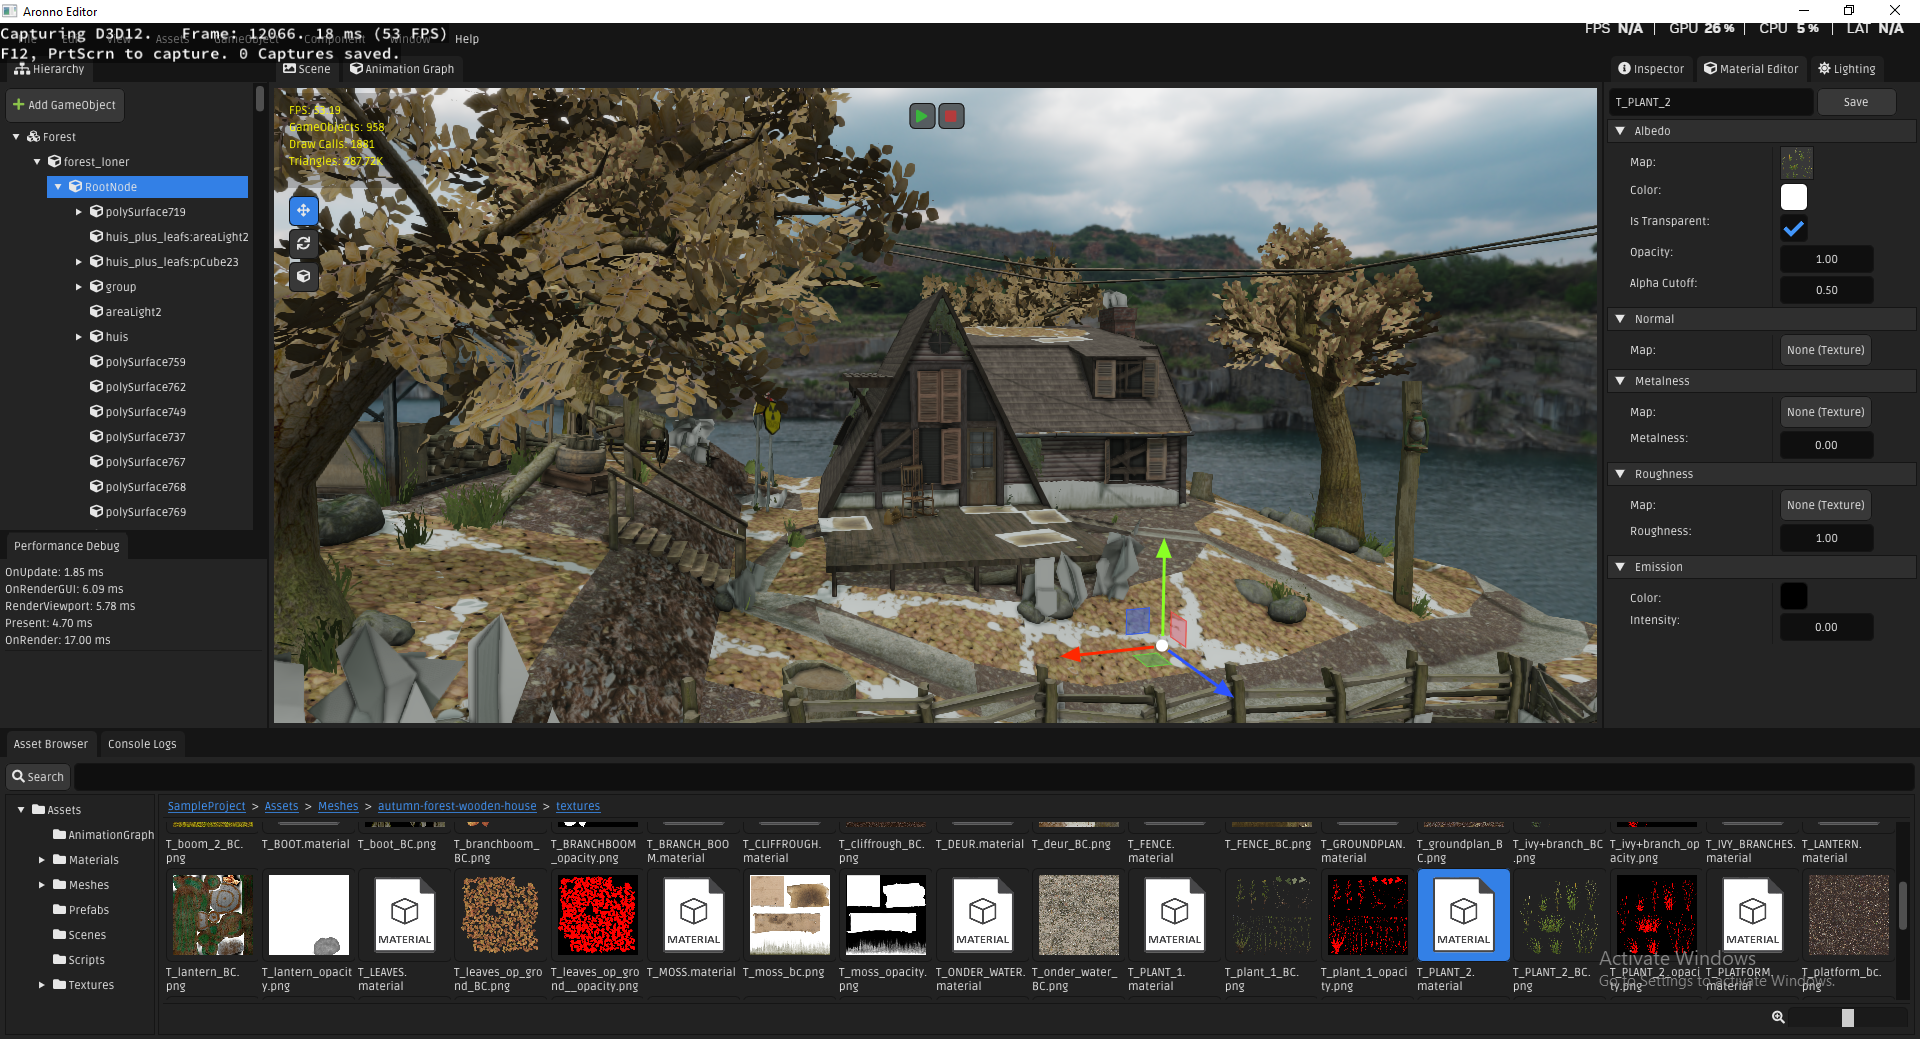
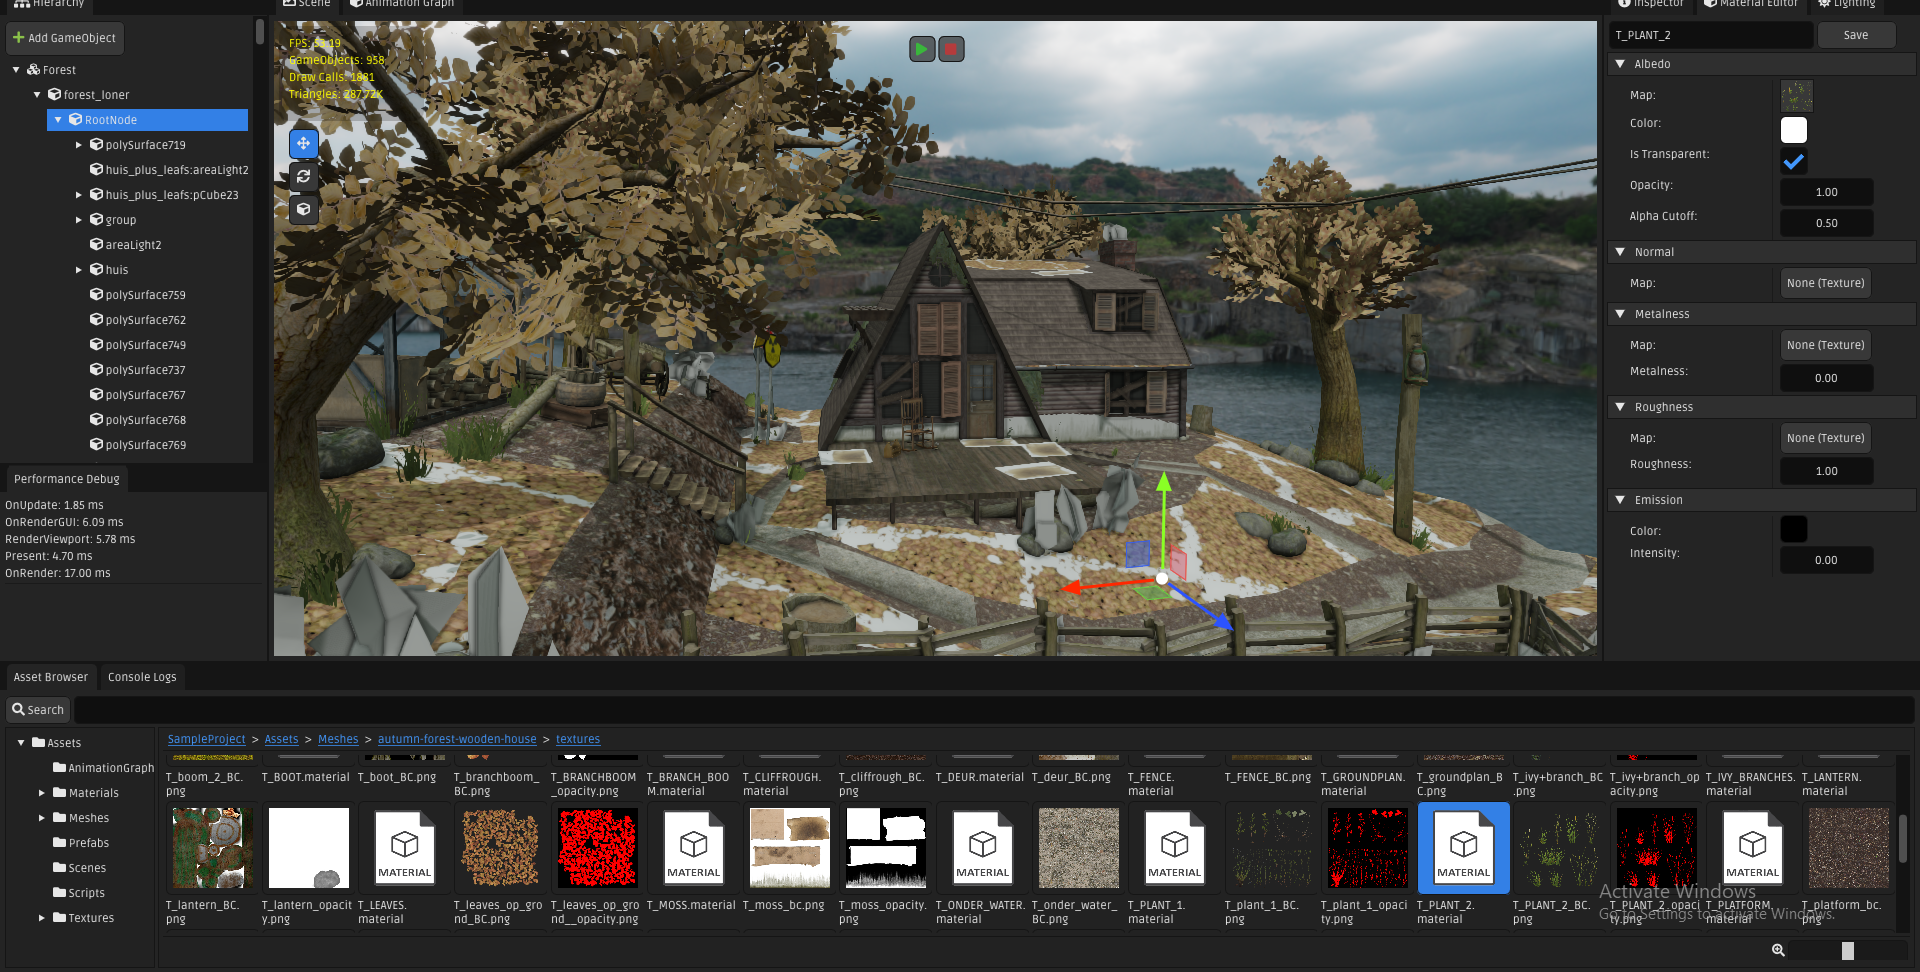
image update

diff --git a/index.html b/index.html
@@ -3,7 +3,7 @@
 <head>
 <meta charset="UTF-8">
 <meta name="viewport" content="width=device-width, initial-scale=1.0">
-<title>Aronno Engine — C++ Game Engine</title>
+<title>Aronno Engine</title>
 <link rel="preconnect" href="https://fonts.googleapis.com">
 <link rel="preconnect" href="https://fonts.gstatic.com" crossorigin>
 <link href="https://fonts.googleapis.com/css2?family=Bebas+Neue&family=Space+Mono:ital,wght@0,400;0,700;1,400&family=DM+Sans:wght@300;400;500&display=swap" rel="stylesheet">
@@ -1088,7 +1088,7 @@
 
     <div class="shot-frame">
       <div class="shot-inner">
-        <img src="images/ss_scene_editing_01.png" style="width:100%;height:100%;object-fit:cover;">
+        <img src="images/ss_scene_editing_02.jpg" style="width:100%;height:100%;object-fit:cover;">
       </div>
       <div class="shot-caption">Animation Graph Asset Editor</div>
     </div>
@@ -1109,7 +1109,7 @@
 
     <div class="shot-frame">
       <div class="shot-inner">
-        <img src="images/ss_scene_editing_01.png" style="width:100%;height:100%;object-fit:cover;">
+        <img src="images/ss_ui_asset_editing_01.jpg" style="width:100%;height:100%;object-fit:cover;">
       </div>
       <div class="shot-caption">UI Asset Editor</div>
     </div>
